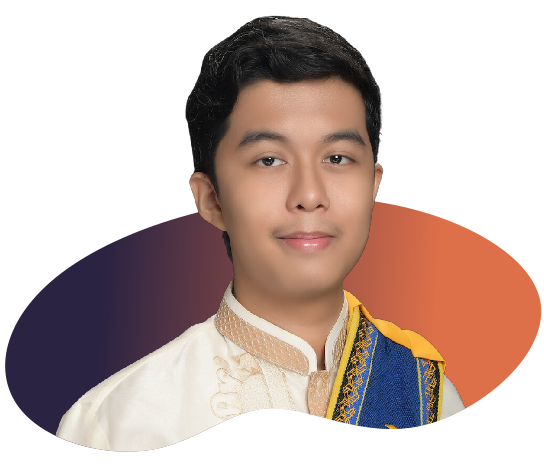
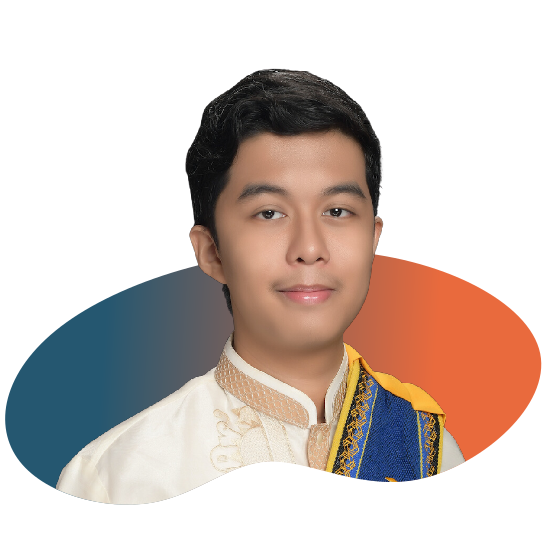
added phone adaptiveness to landing and aboutme

diff --git a/davis-website/src/styles/Home.css b/davis-website/src/styles/Home.css
@@ -1,22 +1,34 @@
 /* Landing */
 
+body {
+  margin: 0px;
+
+}
+
 .Landing {
-  background-image:url("../assets/landing_bg.png");
+  background-image:url("../assets/landing_bg2.png");
   background-size:100%;
   background-repeat:no-repeat;
-  background-position:bottom;
-  height: 100vh;
+  background-position:top;
+  word-spacing: 100vw;
+  padding-left:-10px;
+  height: 89vh;
+  box-shadow: inset 0px -20em 15em -15px  #255770;
 }
 
 .TitleWrapper {
   position:relative;
-  padding-top:10%;
+  padding-top:30%;
+  display: block;
 }
 
 .Title {
-  font-size: 80px;
+  padding: 10px;
+  font-size: 60px;
   text-align: center;
   color: white;
+  word-wrap:break-word;
+  table-layout: fixed;
 }
 
 .typewriter {
@@ -43,17 +55,24 @@
 }
 
 .Links {
-  display:flex;
+  display:block;
   margin: auto;
   text-align:center;
 }
 
+.LinksWrapper {
+  display: block;
+}
+
 .title-link {
+  padding-left: 0px;
+  display:block;
   font-weight:100;
   font-size:30px;
   color:white;
   display:inline-block;
   margin: 0px 10px;
+  width: 100%;
 }
 
 .title-link:hover {
@@ -64,4 +83,97 @@
   text-decoration:underline;
   /* background-color:white; */
   color:#2B2342;
+}
+
+br.nobreak {
+  line-height: 0px;
+}
+
+@media only screen and (min-width: 768px) {
+  .Landing {
+    background-image:url("../assets/landing_bg2.png");
+    background-size:100%;
+    background-repeat:no-repeat;
+    background-position:top;
+    width: 100vw;
+    height: 100vh;
+    box-shadow: inset 0px -10em 10em -15px  #255770;
+  }
+  
+  .TitleWrapper {
+    position:relative;
+    padding-top:10%;
+    /* display:inline-flex; */
+  }
+  
+  .Title {
+    font-size: 80px;
+    text-align: center;
+    color: white;
+  }
+
+  .Title2 {
+    margin-top: -10%;
+  }
+
+  .typewriter {
+    display:flexbox;
+    overflow: hidden; /* Ensures the content is not revealed until the animation */
+    white-space: nowrap; /* Keeps the content on a single line */
+    border-right: .05em solid white; /* The typwriter cursor */
+    margin: 0 auto; /* Gives that scrolling effect as the typing happens */
+    letter-spacing: .05em; /* Adjust as needed */
+    animation: 
+      typing 3.5s steps(50, end),
+      blink-caret .75s step-end infinite;
+  }
+  
+  @keyframes typing {
+    from { width: 0 }
+    to { width: 100% }
+  }
+  
+  /* The typewriter cursor effect */
+  @keyframes blink-caret {
+    from, to { border-color: transparent }
+    50% { border-color: white; }
+  }
+  
+  .Links {
+    display:flex;
+    margin: auto;
+    text-align:center;
+  }
+
+  .LinksWrapper {
+    display:inline-flex;
+    white-space:nowrap;
+    align-items:center;
+    align-content: center;
+    margin: auto;
+    height:100%;
+  }
+  
+  .title-link {
+    font-weight:100;
+    font-size:30px;
+    color:white;
+    display:inline-block;
+    margin: 0px 10px;
+  }
+  
+  .title-link:hover {
+    text-decoration:underline;
+  }
+  
+  .title-link:active {
+    text-decoration:underline;
+    /* background-color:white; */
+    color:#2B2342;
+  }
+
+  br.nobreak {
+    content: " ";
+    display: none;
+  }
 }

diff --git a/davis-website/src/sections/Home.js b/davis-website/src/sections/Home.js
@@ -29,10 +29,10 @@ function Home() {
 
       <div className="Landing">
         <div className="TitleWrapper">
-          <h1 className="Title typewriter">davis_magpantay</h1>
+          <h1 className="Title">davis_<br className="nobreak"/>magpantay.</h1>
         </div>
         <div className="Links">
-          <div className="center-flex">
+          <div className="LinksWrapper">
             <div onClick={() => scrollToSection(science)} className="title-link unselectable">science.</div>
             <div onClick={() => scrollToSection(code)} className="title-link unselectable">code.</div>
             <div onClick={() => scrollToSection(photography)} className="title-link unselectable">photography.</div>
@@ -42,11 +42,11 @@ function Home() {
         </div>
       </div>
 
-      <div ref={about}>
-        <AboutMe />
-      </div>
+        <div ref={about}>
+          <AboutMe />
+        </div>
 
-      <br />
+      <br className="Section-Break"/>
 
       <div ref={science}>
         <Science />

diff --git a/davis-website/src/sections/Science.js b/davis-website/src/sections/Science.js
@@ -1,12 +1,24 @@
 import '../styles/All.css';
-import '../styles/Home.css';
+import '../styles/Science.css';
+
+
 
 function Science() {
   return (
     <div>
-        <div className="Science Section">
-            <h1 className="header"># science.</h1>
+      <div className="Science Section">
+        <h1 className="header"># science.</h1>
+        <div className="LeftScience">
+          <div className="TabWrapper">
+            <ul className="Tab">chemistry</ul>
+            <ul className="Tab">modeling</ul>
+            <ul className="Tab">informatics</ul>
+            <ul className="Tab">engineering</ul>
+          </div>
         </div>
+        <div className="RightScience">
+        </div>
+      </div>
     </div>
   );
 }

diff --git a/davis-website/src/sections/AboutMe.js b/davis-website/src/sections/AboutMe.js
@@ -10,10 +10,9 @@ function AboutMe() {
         <div className="LeftAbout">
           <h1 className="headline">Hello!</h1>
           <h1 className="headline">I'm Davis :)</h1>
-          <h3 className="headline-description half-screen">I’m a STEM-enthusiast who does <br />science, code, and photography. <br />
-          Welcome to my website!</h3>
+          <h3 className="headline-description HalfDiv">I love to do science, code stuff, and take photos. Welcome to my site!</h3>
         </div>
-        <div className="RightAbout half-screen">
+        <div className="RightAbout HalfDiv">
           <img src={MyPhoto} alt="This is me!" className="image"/>
         </div>
       </div>

diff --git a/davis-website/src/styles/AboutMe.css b/davis-website/src/styles/AboutMe.css
@@ -2,15 +2,44 @@
 /* About Me */
 
 .AboutMe {
-    display:flex;
+    display:block;
     justify-content: center;
+    height:100%;
 }
 
 .LeftAbout {
     align-self:center;
     left:100%;
+    width: 100%;
 }
 
 .RightAbout {
     right:100%;
+}
+
+.HalfDiv {
+    width: 100%;
+}
+
+/* Desktop */
+@media only screen and (min-width: 768px) {
+    .AboutMe {
+        display:flex;
+        justify-content: center;
+        height: 100%;
+    }
+    
+    .LeftAbout {
+        align-self:center;
+        left:100%;
+        width: 35vw;
+    }
+    
+    .RightAbout {
+        right:100%;
+    }
+
+    .HalfDiv {
+        width: 35vw;
+    }
 }

diff --git a/davis-website/src/styles/All.css b/davis-website/src/styles/All.css
@@ -7,17 +7,17 @@
 /* General Stuff */
   
 .center-block {
-display:inline-block;
-white-space:nowrap;
+    display:inline-block;
+    white-space:nowrap;
 }
 
 .center-flex {
-display:inline-flex;
-white-space:nowrap;
-align-items:center;
-align-content: center;
-margin: auto;
-height:100%;
+    display:inline-flex;
+    white-space:nowrap;
+    align-items:center;
+    align-content: center;
+    margin: auto;
+    height:100%;
 }
 
 .padding-sides {
@@ -56,6 +56,10 @@ max-height:100%;
 .Section {
     margin: 0% 10% 0% 10%;
     height: 50vh;
+}
+
+.Section-Break {
+    line-height: 200%;
 }
 
 .unselectable {

diff --git a/davis-website/src/styles/Science.css b/davis-website/src/styles/Science.css
@@ -1,0 +1,26 @@
+/* Phone */
+
+
+/* Desktop */
+@media only screen and (min-width: 768px) {
+    .Science {
+
+    }
+
+    .LeftScience {
+
+    }
+
+    .Tab {
+        list-style-type: square;
+        color: white;
+
+        -webkit-user-select: none; /* Safari */        
+        -moz-user-select: none; /* Firefox */
+        -ms-user-select: none; /* IE10+/Edge */
+        user-select: none; /* Standard */
+    }
+    .Tab::marker {
+        color: white;
+    }
+}

diff --git a/davis-website/src/index.css b/davis-website/src/index.css
@@ -1,7 +1,7 @@
 body {
   margin: 0;
   font-family: 'Lato', 'Roboto', sans-serif;
-  background-color:#2B2342;
+  background-color: #255770; 
   -webkit-font-smoothing: antialiased;
   -moz-osx-font-smoothing: grayscale;
 }
@@ -10,6 +10,7 @@ p, h1, h2, h3, h4, h5 {
   margin: 0;
   color:white;
   font-family: 'Lato', 'Roboto', sans-serif;
+  width: 100%;
 }
 
 * {

diff --git a/davis-website/src/index.js b/davis-website/src/index.js
@@ -14,4 +14,4 @@ root.render(
 // If you want to start measuring performance in your app, pass a function
 // to log results (for example: reportWebVitals(console.log))
 // or send to an analytics endpoint. Learn more: https://bit.ly/CRA-vitals
-reportWebVitals();
+reportWebVitals(console.log);
